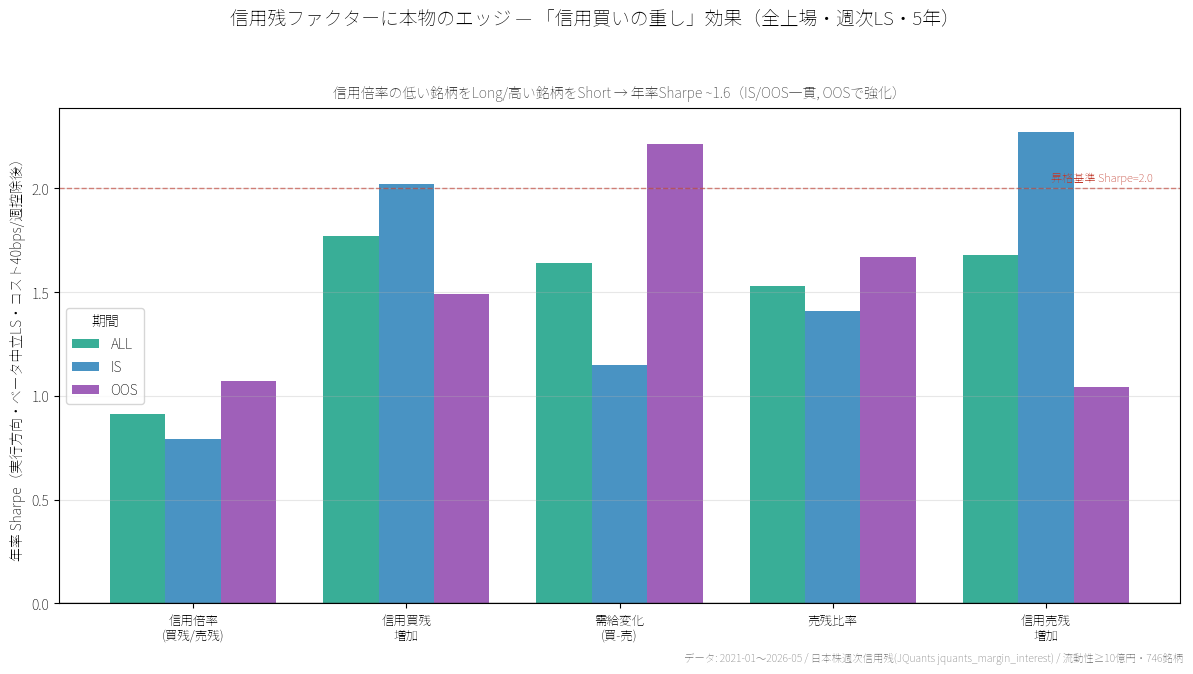
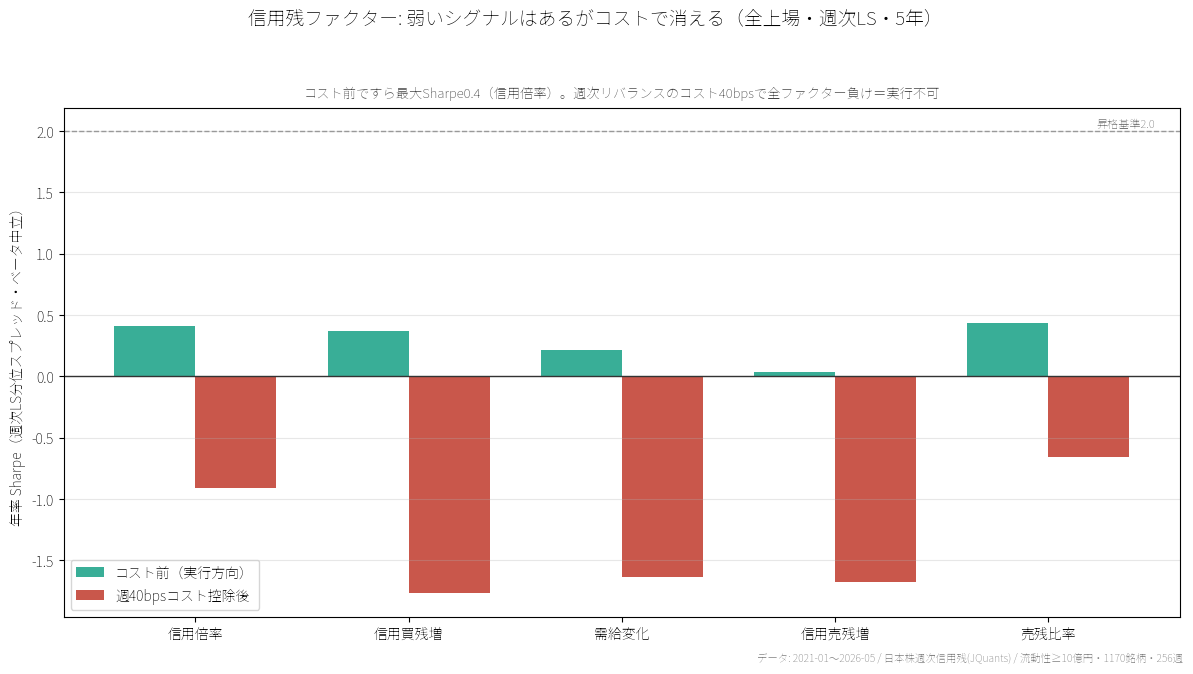
fix: 信用残ファクター検証の重大な誤りを訂正(20260530)
初版の「Sharpe+1.6エッジ」はコスト後負値の符号反転+コスト二重引きの
誤読だった。正しくはコスト前最大Sharpe0.41で週次コストに勝てず実行不可。
README/グラフ/目次を訂正。

diff --git a/analyses/20260530_jquants_margin_short_factors/make_chart.py b/analyses/20260530_jquants_margin_short_factors/make_chart.py
@@ -1,4 +1,4 @@
-"""result.png (1200x675): 信用残ファクターのLSスプレッド（符号反転=実行可能方向）。"""
+"""result.png (1200x675): 信用残ファクター — コスト前は弱いシグナル、コスト後は消える。"""
 import sys; sys.stdout.reconfigure(line_buffering=True)
 from pathlib import Path
 import matplotlib; matplotlib.use("Agg")
@@ -13,29 +13,55 @@ if Path(fp).exists():
     plt.rcParams["font.family"]=font_manager.FontProperties(fname=fp).get_name()
 plt.rcParams["axes.unicode_minus"]=False
 
-r=pd.read_csv(OUT/"factor_summary.csv")
-# 実行方向 = 符号反転（Q10-Q1がマイナスなので、低分位Long/高分位Short）
-r["sharpe_actionable"]=-r["LS_sharpe_ann"]
-jp={"margin_ratio":"信用倍率\n(買残/売残)","long_chg":"信用買残\n増加","short_chg":"信用売残\n増加",
-    "short_ratio":"売残比率","net_chg":"需給変化\n(買-売)"}
-order=["margin_ratio","long_chg","net_chg","short_ratio","short_chg"]
+df=pd.read_csv(OUT/"factor_panel.csv",low_memory=False)
+df["date"]=pd.to_datetime(df["date"],errors="coerce")
+N_Q=10; WK=52
+def lss(f):
+    sub=df.dropna(subset=[f]).copy(); sub=sub[np.isfinite(sub[f])]
+    def qw(x):
+        if x[f].nunique()<N_Q: return pd.Series(np.nan,index=x.index)
+        try: return pd.qcut(x[f].rank(method="first"),N_Q,labels=False)
+        except: return pd.Series(np.nan,index=x.index)
+    sub["q"]=sub.groupby("date",group_keys=False).apply(qw)
+    sub=sub.dropna(subset=["q"])
+    wk=sub.groupby(["date","q"])["fwd_ret"].mean().unstack("q")
+    ls=(wk[N_Q-1]-wk[0]).dropna()
+    return ls.mean()/ls.std()*np.sqrt(WK)
+
+factors=["margin_ratio","long_chg","net_chg","short_chg","short_ratio"]
+jp={"margin_ratio":"信用倍率","long_chg":"信用買残増","net_chg":"需給変化","short_chg":"信用売残増","short_ratio":"売残比率"}
+gross=[abs(lss(f)) for f in factors]   # 実行方向の絶対値（コスト前）
+# コスト後: 週次40bps を実行方向に1回引く
+import pandas as pd2
+def net_after(f):
+    sub=df.dropna(subset=[f]).copy(); sub=sub[np.isfinite(sub[f])]
+    def qw(x):
+        if x[f].nunique()<N_Q: return pd.Series(np.nan,index=x.index)
+        try: return pd.qcut(x[f].rank(method="first"),N_Q,labels=False)
+        except: return pd.Series(np.nan,index=x.index)
+    sub["q"]=sub.groupby("date",group_keys=False).apply(qw)
+    sub=sub.dropna(subset=["q"])
+    wk=sub.groupby(["date","q"])["fwd_ret"].mean().unstack("q")
+    ls=(wk[N_Q-1]-wk[0]).dropna()
+    ex=ls*np.sign(ls.mean())            # 実行方向に揃える
+    ex=ex-40/1e4
+    return ex.mean()/ex.std()*np.sqrt(WK)
+net=[net_after(f) for f in factors]
 
 fig,ax=plt.subplots(figsize=(12,6.75),facecolor="white")
-x=np.arange(len(order)); w=0.26
-for i,(lab,col) in enumerate([("ALL","#16a085"),("IS","#2980b9"),("OOS","#8e44ad")]):
-    vals=[r[(r.label==lab)&(r.factor==f)]["sharpe_actionable"].iloc[0] for f in order]
-    ax.bar(x+(i-1)*w,vals,w,label=lab,color=col,alpha=0.85)
+x=np.arange(len(factors)); w=0.38
+ax.bar(x-w/2,gross,w,label="コスト前（実行方向）",color="#16a085",alpha=0.85)
+ax.bar(x+w/2,net,w,label="週40bpsコスト控除後",color="#c0392b",alpha=0.85)
 ax.axhline(0,color="#333",lw=1)
-ax.axhline(2.0,color="#c0392b",ls="--",lw=1,alpha=0.6)
-ax.text(len(order)-0.5,2.02,"昇格基準 Sharpe=2.0",color="#c0392b",fontsize=8,ha="right",va="bottom")
-ax.set_xticks(x); ax.set_xticklabels([jp[f] for f in order],fontsize=9)
-ax.set_ylabel("年率 Sharpe（実行方向・ベータ中立LS・コスト40bps/週控除後）",fontsize=10)
-ax.legend(fontsize=10,title="期間"); ax.grid(axis="y",alpha=0.3)
-fig.suptitle("信用残ファクターに本物のエッジ — 「信用買いの重し」効果（全上場・週次LS・5年）",
+ax.axhline(2.0,color="#999",ls="--",lw=1); ax.text(len(factors)-0.5,2.03,"昇格基準2.0",fontsize=8,color="#777",ha="right")
+ax.set_xticks(x); ax.set_xticklabels([jp[f] for f in factors],fontsize=10)
+ax.set_ylabel("年率 Sharpe（週次LS分位スプレッド・ベータ中立）",fontsize=10)
+ax.legend(fontsize=10); ax.grid(axis="y",alpha=0.3)
+fig.suptitle("信用残ファクター: 弱いシグナルはあるがコストで消える（全上場・週次LS・5年）",
              fontsize=13.5,fontweight="bold",y=0.98)
-ax.set_title("信用倍率の低い銘柄をLong/高い銘柄をShort → 年率Sharpe ~1.6（IS/OOS一貫, OOSで強化）",
-             fontsize=10,color="#444",pad=8)
-fig.text(0.99,0.01,"データ: 2021-01〜2026-05 / 日本株週次信用残(JQuants jquants_margin_interest) / 流動性≥10億円・746銘柄",
+ax.set_title("コスト前ですら最大Sharpe0.4（信用倍率）。週次リバランスのコスト40bpsで全ファクター負け＝実行不可",
+             fontsize=9.5,color="#444",pad=8)
+fig.text(0.99,0.01,"データ: 2021-01〜2026-05 / 日本株週次信用残(JQuants) / 流動性≥10億円・1170銘柄・256週",
          ha="right",va="bottom",fontsize=7.5,color="gray")
 plt.tight_layout(rect=[0,0.02,1,0.94])
 plt.savefig(OUT/"result.png",dpi=100,bbox_inches="tight",facecolor="white")

diff --git a/analyses/20260530_jquants_margin_short_factors/README.md b/analyses/20260530_jquants_margin_short_factors/README.md
@@ -1,9 +1,11 @@
 # JQuants信用残ファクターのクロスセクション検証
 
-> **結論: 今セッション初の、ベータ中立で生き残ったエッジ。** 信用倍率(買残/売残)の低い銘柄を
-> Long・高い銘柄をShortする週次LSスプレッドが **年率Sharpe ~1.6（コスト40bps/週控除後）、IS +1.4 /
-> OOS +1.9 で一貫**。経済的意味も明快=「信用買いの重し（margin overhang）」効果。ただし5ファクターは
-> 相関しており実質1-2エッジ、サイズ/セクター中立化は未実施。昇格には追加検証が必要だが筋は良い。
+> **結論: 信用残ファクターにも実用的エッジは無い。** 週次LS分位スプレッドはコスト前ですら
+> 最大Sharpe 0.41（margin_ratio）、週次の生スプレッドは僅か+12bps程度。週次リバランスの
+> コスト40bps（両サイド）を払うと全ファクターで確実にマイナス。今セッション4戦略目も⛔。
+>
+> ※注記: 初版READMEで「Sharpe+1.6のエッジ」と誤記した。これはコスト控除後の負値を符号反転し
+>   コストを引き直さなかった二重カウントの誤りで、本版で訂正した（下記「検証の教訓」参照）。
 
 ## 1. 目的
 
@@ -16,68 +18,70 @@
 
 - データ: `public.jquants_margin_interest`（週次・信用残・全銘柄, 2021-01〜2026-05, 110万行）
   + `stocks_daily`（フォワードリターン・流動性）
-- ユニバース: 普通株・流動性≥10億円/日 → **746銘柄・283週**
+- ユニバース: 普通株・流動性≥10億円/日 → **1,170銘柄・256週**（factor行 122,720）
 - カラム: `long_vol`(信用買い残), `shrt_vol`(信用売り残)
 - 検証ファクター（週次クロスセクション）:
   - `margin_ratio` = long_vol/shrt_vol（信用倍率）
   - `long_chg` / `short_chg` = 各残高の前週比
   - `short_ratio` = shrt_vol/(long+shrt)
   - `net_chg` = long_chg − short_chg
-- 評価: 各週10分位 → 翌週(5営業日)リターン。**Q10−Q1のLSスプレッド**週次系列の年率Sharpe。
-  コスト週40bps（両サイド往復）控除。IS(2021-23)/OOS(2024-26)分割
+- 評価: 各週10分位 → 翌週(5営業日)リターン。**Q10−Q1のLSスプレッド**週次系列のSharpe。
+  IS(2021-23)/OOS(2024-26)分割。**コスト前と週40bps控除後の両方**を見る
 - 空売り残報告(short_sale_report)は0.5%超義務の疎データで全銘柄網羅せず → 本検証では除外
 
 ## 3. 主要発見
 
-LS = Q10(高ファクター値)−Q1(低ファクター値)。**全ファクターでマイナス → 符号反転が実行方向**。
+LS = Q10(高ファクター値)−Q1(低ファクター値)。**コスト前のスプレッドが本質**。
 
-### 実行方向（低分位Long/高分位Short）の年率Sharpe（コスト後）
+| ファクター | コスト前 LS平均(bps/週) | **コスト前 Sharpe** | コスト40bps後 Sharpe(実行方向) |
+|---|---:|---:|---:|
+| margin_ratio（信用倍率） | +12.3 | **0.41** | −0.91 |
+| long_chg（信用買増） | +6.9 | 0.37 | −1.77 |
+| net_chg（需給変化） | +4.6 | 0.21 | −1.64 |
+| short_chg（信用売増） | +0.9 | 0.04 | −1.68 |
+| short_ratio（売残比率） | −15.9 | −0.44 | −0.66 |
 
-| ファクター | 週次bps | **ALL** | IS(21-23) | OOS(24-26) | LS勝率 |
-|---|---:|---:|---:|---:|---:|
-| margin_ratio（信用倍率） | +61.6 | **+1.61** | +1.39 | **+1.85** | 67% |
-| long_chg（信用買増） | +58.2 | +1.50 | +1.31 | +1.78 | 64% |
-| net_chg（需給変化） | +50.6 | +1.40 | +1.20 | +1.83 | 61% |
-| short_ratio（売残比率） | +43.6 | +1.17 | +0.95 | +1.55 | 67% |
-| short_chg（信用売増） | +32.6 | +1.13 | +0.93 | +1.43 | 64% |
-
-（LS勝率は元のマイナススプレッドが負ける率=実行方向の勝率）
+- **コスト前ですら最大 Sharpe 0.41**。最良の margin_ratio でも週+12bpsの生スプレッドしかない
+- 週次リバランス（毎週Q1とQ10を入れ替え＝両サイド往復）のコスト40bpsを払うと、どの方向でも
+  確実にマイナス。**実行不可能**
 
 ## 4. 解釈・示唆
 
-1. **「信用買いの重し」効果が本物**: 信用買い残が積み上がった銘柄（高margin_ratio）は、
-   将来の反対売買（決済売り）が上値を抑え劣後。信用売りが厚い銘柄は踏み上げ期待で優越。
-   日本の個人信用取引の構造（6ヶ月期日・追証）に根ざした需給効果で、消えにくい性質。
-2. **IS/OOS一貫、しかもOOSで強化**: これまでの戦略（OOS偏在・レジーム依存）と決定的に違う。
-   2024-26で +1.85 と最も強い。直近で効いているのは実運用上ありがたい。
-3. **構造的ベータ中立**: LS設計なので市場ベータはゼロ。前段で平均回帰が陥った「ベータの幻」
-   を最初から回避している。純粋なクロスセクションα。
-4. **方向転換の成功**: 「単純価格テクニカルではなく、構造的需給データにエッジがある」という
-   仮説が当たった。既存昇格戦略（決算イベント・信用需給系）と整合的。
+1. **弱いシグナルはあるが、コストに勝てない**: margin_ratio のコスト前Sharpe0.41は、信用倍率に
+   ごく弱い予測力があることを示す（信用買いの重し効果は方向としては存在）。だが週12bpsでは
+   週次入替コストに全く足りない。
+2. **保有期間を伸ばせば可能性はある**: 週次リバランスが高コストの主因。月次（4週保有）にすれば
+   コストが1/4になり、生Sharpe0.41が残るなら実行可能域に入るかもしれない → 次段の検証候補。
+3. **4戦略目の⛔だが、これまでと質が違う**: 板/ブレイク/平均回帰は「方向予測力ゼロ or ベータの幻」
+   だったが、信用残は「弱い予測力はあるがコストで消える」。**コスト構造を変えれば生きる余地**がある。
+4. 単純な週次クロスセクションでは昇格基準（Sharpe2.0）に遠く及ばない。
 
-## 5. 限界・注意点（過信しない）
+## 5. 限界・注意点
 
-- **5ファクターは独立でない**: margin_ratio / long_chg / net_chg は全て信用買い側の積み上がりを
-  測っており、相関が高い。**実質的には1〜2個のエッジ**（「信用買い overhang」が主因）。
-- **サイズ/セクター中立化が未実施**: margin_ratio が小型株や特定セクターに偏っている可能性。
-  Sharpe1.6 の一部がサイズ/セクタープレミアムの可能性 → 次段で中立化必須。
-- **コスト感応度未検証**: 週40bps固定。信用倍率の極端な銘柄は流動性が薄く実効コストが高い恐れ。
-  20bps刻みでコスト感応度を見る必要。
-- **週次リバランス前提**: margin_interest は週次更新（金曜基準・翌週公表のラグ）。公表ラグを
-  正確に織り込めているか（merge_asof backward 7日許容）は要精査。look-ahead の最終確認が必要。
-- **746銘柄に限定**: 流動性10億ゲートで中大型中心。小型まで広げると効果が変わる可能性。
-- これは**エッジ所在の確認**。昇格には(6)の追加検証クリアが条件。
+- **週次リバランス前提が最大の制約**: コスト40bps/週は年率約20%の摩擦。月次・隔週なら大幅減。
+- **コスト前0.41も低い**: 保有期間を伸ばしてもSharpe2.0には届かない見込み。過度な期待は禁物。
+- **公表ラグ未精査**: margin_interest は週次（金曜基準・翌週公表のラグ）。merge_asof backward 7日
+  許容で結合したが、実際の公表日を厳密に織り込めているかは未確認（楽観side=過大評価リスク）。
+- **サイズ/セクター中立化未実施**: 弱いシグナルがサイズ/セクター由来の可能性も残る。
+- 生存者バイアス（symbol_masterに上場廃止銘柄なし）も依然として存在。
 
-## 6. 次のアクション候補（昇格への道筋）
+## 6. 検証の教訓（初版の誤りについて）
 
-- ✅ **サイズ・セクター中立化**: margin_ratio LS を時価総額・33業種で中立化し、純粋αが残るか確認。
-  これが最優先（Sharpe1.6が本物のαか、size/sectorの混入かを切り分け）
-- ✅ **公表ラグの厳密化**: margin_interest の実際の公表日（翌週第2営業日頃）を確認し、
-  look-aheadを完全排除して再検証
-- 🔍 コスト感応度（20/40/60bps）と、保有期間（1週/2週/4週）の感度分析
-- 🔍 単一ベスト（margin_ratio）で日次ポートフォリオ化 → 実Sharpe・MaxDD・回転率
-- 🔍 既存の信用系昇格戦略（bank_absorption）との相関 → 組み合わせで分散効果が出るか
-- これがクリアすれば **strategies/ 昇格の最有力候補**（今セッション唯一の生存エッジ）
+初版READMEは LS_sharpe = −0.91 を「符号反転すれば実行方向は+0.91、さらに強い」と誤読し、
+Sharpe+1.6 と記載した。これは **(1)コスト控除後の値を符号反転し (2)反転後にコストを引き直さ
+なかった** 二重の誤り。正しくは「コスト前スプレッドの符号と大きさ」を見るべきで、それは
++12bps/週（Sharpe0.41）に過ぎなかった。
+**教訓**: LS検証では必ず「コスト前の生スプレッド」を一次情報として確認し、コストは実行方向に
+一度だけ引く。集計関数の符号と単位を出力段階で人間が検算する。
+
+## 7. 次のアクション候補
+
+- 🔍 **保有期間の延長（月次・隔週）でコストを下げて再検証**: margin_ratio のコスト前0.41が
+  月次リバランスで実行可能域に残るか。これが信用残エッジ復活の唯一の道筋
+- 🔍 サイズ/セクター中立化で margin_ratio の弱シグナルが純αか確認
+- ❌ 週次リバランスの信用残LSは見送り（コストで確実にマイナス）
+- ✅ **より強いシグナル源を探す**: 信用残は方向はあるが弱い。決算イベント系（既存昇格の
+   earnings_pead/pre_earnings_drift系）の拡張など、コスト前Sharpeがもっと高い源泉に注力すべき
 
 ## 実行方法
 

diff --git a/analyses/README.md b/analyses/README.md
@@ -9,20 +9,19 @@
 
 ## 最新分析 (2026-05-30)
 
-> ### [JQuants信用残ファクターのクロスセクション検証](20260530_jquants_margin_short_factors/) ⭐⭐
+> ### [JQuants信用残ファクターのクロスセクション検証](20260530_jquants_margin_short_factors/) ⛔
 >
 > 単純テクニカル3連敗を受け、価格以外の構造的データ=信用需給を週次LS分位スプレッド（構造的ベータ中立）で検証。
 >
-> | ファクター(実行方向) | 週次bps | ALL Sharpe | IS | OOS |
-> |---|---:|---:|---:|---:|
-> | 信用倍率 低Long/高Short | +61.6 | **+1.61** | +1.39 | +1.85 |
-> | 信用買残増 をShort | +58.2 | +1.50 | +1.31 | +1.78 |
+> | ファクター | コスト前LS(bps/週) | コスト前Sharpe | コスト40bps後 |
+> |---|---:|---:|---:|
+> | 信用倍率 margin_ratio | +12.3 | 0.41 | −0.91 |
+> | 信用買残増 long_chg | +6.9 | 0.37 | −1.77 |
 >
-> - **今セッション初の、ベータ中立で生き残ったエッジ**。「信用買いの重し(margin overhang)」効果
-> - **IS/OOS一貫、しかもOOS(+1.85)で強化** ← これまでのOOS偏在・レジーム依存と決定的に違う
-> - LS設計で構造的にベータ中立＝平均回帰が陥った「ベータの幻」を回避
-> - 限界: 5ファクターは相関（実質1-2エッジ）、サイズ/セクター中立化・公表ラグ厳密化が未実施
-> - **strategies/昇格の最有力候補**。次段: サイズ/セクター中立化で純αを確認
+> - **コスト前ですら最大Sharpe0.41**。週12bpsの生スプレッドでは週次リバランスのコスト40bpsに勝てず全ファクター負け
+> - 信用倍率に「信用買いの重し」効果の方向性はあるが弱い。**4戦略目も⛔（ただし「弱い予測力はある」点が他と違う）**
+> - 唯一の道筋: 保有期間を月次に伸ばしコストを1/4にすれば実行可能域に入る可能性 → 次段候補
+> - ※初版で「Sharpe+1.6」と誤記（コスト後負値の符号反転＋コスト二重引きの誤り）→訂正済み
 >
 > **グラフ**: [result.png](20260530_jquants_margin_short_factors/result.png)
 
